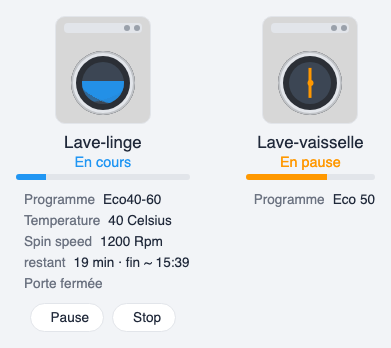
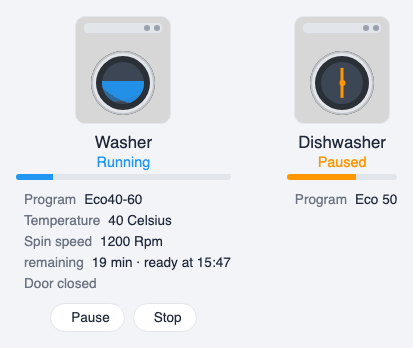
docs: split README into English/French, add badges and links
README.md is now the English version with an EN screenshot; adds
README.fr.md (French) with its own FR screenshot, cross-linked at the
top of each — same pattern as the other repos. Also adds the HACS/
release/license/Buy Me A Coffee badges and the other-projects link.

Fixes an identifier collision in docs/demo.html: its top-level `lang`
variable shadowed the card script's own global `lang()` helper (both
load as plain, non-module scripts sharing the same global scope),
which silently aborted the demo script before it could render
anything.

diff --git a/docs/demo.html b/docs/demo.html
@@ -41,21 +41,25 @@ customElements.define("ha-icon", StubIcon);
 function st(entity_id, state, attributes) {
   return { entity_id, state: String(state), attributes: attributes || {} };
 }
+const demoLang = new URLSearchParams(location.search).get("lang") === "fr" ? "fr" : "en";
+const washerName = demoLang === "fr" ? "Lave-linge" : "Washer";
+const dishwasherName = demoLang === "fr" ? "Lave-vaisselle" : "Dishwasher";
+
 function mkHass(states) {
   return {
-    language: "fr", locale: { language: "fr" }, states, entities: {}, devices: {},
+    language: demoLang, locale: { language: demoLang }, states, entities: {}, devices: {},
     callService: () => {},
   };
 }
 
 const states1 = {};
-[st("sensor.lave_linge_appliance_state", "Running", { friendly_name: "Lave-linge" }),
+[st("sensor.lave_linge_appliance_state", "Running", { friendly_name: washerName }),
  st("select.lave_linge_program_uid", "Cotton Pr Eco40-60"),
  st("sensor.lave_linge_time_to_end", 1380, { unit_of_measurement: "s" }),
  st("binary_sensor.lave_linge_door_state", "off"),
  st("binary_sensor.lave_linge_connectivity_state", "on"),
- st("select.lave_linge_temperature", "40 Celsius", { friendly_name: "Lave-linge Temperature" }),
- st("select.lave_linge_spin_speed", "1200 Rpm", { friendly_name: "Lave-linge Spin speed" }),
+ st("select.lave_linge_temperature", "40 Celsius", { friendly_name: `${washerName} Temperature` }),
+ st("select.lave_linge_spin_speed", "1200 Rpm", { friendly_name: `${washerName} Spin speed` }),
  st("sensor.lave_linge_alerts", "0", {}),
  st("button.lave_linge_execute_command_pause", "unknown"),
  st("button.lave_linge_execute_command_stopreset", "unknown"),
@@ -85,14 +89,14 @@ setInterval(() => {
 }, 1000);
 
 const states2 = {};
-[st("sensor.dw_state", "paused", { friendly_name: "Lave-vaisselle" }),
+[st("sensor.dw_state", "paused", { friendly_name: dishwasherName }),
  st("sensor.dw_program", "Eco 50", {}),
  st("sensor.dw_progress", 63, {}),
 ].forEach((s) => (states2[s.entity_id] = s));
 const card2 = document.getElementById("card2");
 card2.setConfig({
   type: "custom:ha-appliance-card",
-  name: "Lave-vaisselle",
+  name: dishwasherName,
   appliance_type: "dishwasher",
   state_entity: "sensor.dw_state",
   program_entity: "sensor.dw_program",

diff --git a/README.fr.md b/README.fr.md
@@ -1,0 +1,84 @@
+# HA Appliance Card
+
+[![hacs_badge](https://img.shields.io/badge/HACS-Custom-orange.svg)](https://github.com/hacs/integration)
+[![GitHub Release](https://img.shields.io/github/v/release/ADNPolymerase/ha-appliance-card?sort=semver)](https://github.com/ADNPolymerase/ha-appliance-card/releases)
+[![HACS Action](https://github.com/ADNPolymerase/ha-appliance-card/actions/workflows/hacs.yml/badge.svg)](https://github.com/ADNPolymerase/ha-appliance-card/actions/workflows/hacs.yml)
+[![HA Version](https://img.shields.io/badge/Home%20Assistant-2024.1%2B-blue.svg)](https://www.home-assistant.io)
+[![License: MIT](https://img.shields.io/badge/license-MIT-blue.svg)](https://github.com/ADNPolymerase/ha-appliance-card/blob/main/LICENSE)
+[![Buy Me A Coffee](https://img.shields.io/badge/Buy%20Me%20A%20Coffee-support-yellow.svg?logo=buy-me-a-coffee)](https://buymeacoffee.com/adnpolymerase)
+
+<a href="https://buymeacoffee.com/adnpolymerase" target="_blank"><img src="https://cdn.buymeacoffee.com/buttons/v2/default-orange.png" alt="Buy Me A Coffee" height="60"></a>
+<a href="https://adnpolymerase.github.io/HA/" target="_blank"><img src="https://raw.githubusercontent.com/ADNPolymerase/HA/main/assets/site-button.svg" alt="Lien vers mon github.io pour mes autres projets" height="60"></a>
+
+Une card Lovelace Home Assistant pour lave-linge, sèche-linge et lave-vaisselle — cycle en cours, programme, temps restant, état de la porte, alertes et commandes.
+
+Contrairement aux cards spécifiques à une marque, celle-ci ne suppose aucune intégration particulière. Chaque champ est un mapping d'entité configurable, elle fonctionne donc avec **n'importe quelle** intégration de lave-linge/sèche-linge/lave-vaisselle (Electrolux, Samsung, LG, Bosch/Siemens Home Connect, Miele, une simple prise connectée + capteurs template, etc.) du moment que tu la pointes vers les bonnes entités.
+
+> Statut : preview précoce. Retours et issues bienvenus.
+
+> 🇬🇧 [Read in English](README.md)
+
+![HA Appliance Card screenshot](https://raw.githubusercontent.com/ADNPolymerase/ha-appliance-card/main/docs/screenshot.fr.png)
+
+## Fonctionnalités
+
+- Fonctionne avec toutes les marques/intégrations : aucun ID d'entité codé en dur, tout est mappé dans la configuration de la card.
+- Normalisation d'état : traduit n'importe quelle chaîne brute renvoyée par ton intégration (`Idle`, `Running`, `RUNNING`, `wash`, ...) vers un vocabulaire commun en veille / en cours / en pause / terminé / différé / erreur, avec une détection automatique par mots-clés et une surcharge explicite optionnelle via `state_map`.
+- Icône illustrée de l'appareil (lave-linge hublot avec eau animée, linge qui tourne pour un sèche-linge, bras d'aspersion pour un lave-vaisselle) — statique à l'arrêt, animée uniquement en cours de cycle. Type détecté automatiquement depuis l'entité/icône, ou choisi explicitement via `appliance_type`.
+- Barre de progression : utilise un capteur de pourcentage direct si ton intégration en expose un, sinon l'estime côté client à partir du capteur de temps restant.
+- Nom du programme, lignes d'info complémentaires (température, essorage, vapeur, ...), état de la porte et alertes — chacun optionnel et configurable indépendamment. Les libellés des lignes d'info suppriment automatiquement un préfixe de nom d'appareil répété (ex : une entité nommée "Lave-linge Pods" s'affiche juste "Pods").
+- La porte est représentée entrouverte directement sur l'illustration quand elle est ouverte, en plus d'une ligne de texte ; la connectivité est affichée sous forme d'une petite icône wifi/wifi coupé en haut à droite plutôt qu'en ligne de texte.
+- Commandes Démarrer / Pause / Reprendre / Stop (affichées uniquement pour les boutons/entités que tu configures).
+- Mode compact pour masquer l'illustration et ne garder que le texte.
+- Éditeur visuel : choisis l'entité d'état et la plupart des autres champs sont auto-suggérés à partir des entités sœurs du même appareil — modifiable via le sélecteur d'entité.
+
+## Installation (HACS)
+
+Cette card n'est pas encore dans le store HACS par défaut. Ajoute-la en dépôt personnalisé :
+
+1. HACS → menu "⋮" (en haut à droite) → **Dépôts personnalisés**.
+2. Dépôt : `https://github.com/ADNPolymerase/ha-appliance-card`, catégorie : **Dashboard** (Lovelace plugin).
+3. Installe **HA Appliance Card**, puis recharge/vide le cache si la ressource ne se charge pas automatiquement.
+4. Ajoute une card de type `custom:ha-appliance-card` sur un tableau de bord, via YAML ou l'éditeur visuel.
+
+## Configuration
+
+Seule `state_entity` est obligatoire — tout le reste est optionnel. Dans l'éditeur visuel, définir l'entité d'état pré-remplit automatiquement les autres champs quand une entité sœur correspondante est trouvée sur le même appareil ; chaque champ reste modifiable ou effaçable.
+
+| Option | Description |
+|---|---|
+| `state_entity` | **Obligatoire.** Entité rapportant l'état général de l'appareil (n'importe quel domaine). |
+| `state_map` | Map optionnelle chaîne d'état brute → `idle`\|`running`\|`paused`\|`done`\|`delayed`\|`error`, pour les intégrations dont le vocabulaire n'est pas auto-détecté. |
+| `name` | Titre de la card. Par défaut, le nom convivial de l'entité d'état. |
+| `compact` | `true` pour masquer l'illustration et n'afficher que le texte. |
+| `appliance_type` | `auto` (défaut) \| `washer` \| `dryer` \| `dishwasher`. |
+| `program_entity` / `program_format` | Entité contenant le programme/cycle sélectionné. `program_format: clean` (défaut) simplifie les motifs courants `"<catégorie> Pr <nom>"` ; `raw` affiche l'état tel quel. |
+| `remaining_time_entity` / `remaining_time_unit` | Entité du temps restant. Unité `auto` (défaut, lue depuis l'entité), `seconds`, ou `minutes`. |
+| `progress_entity` | Capteur 0–100 optionnel ; remplace l'estimation de progression côté client. |
+| `door_entity` / `door_open_state` / `door_invert` | Capteur de porte, la valeur d'état signifiant "ouverte" (défaut `on`), et une bascule `invert` pour les capteurs où cet état signifie en réalité fermée. |
+| `alerts_entity` | Une entité dont les *attributs* sont chacun un indicateur on/off (ex : `door: OFF`, `water_leak: ON`) ; tout attribut correspondant à une valeur "on/true/active" s'affiche comme alerte active. |
+| `connectivity_entity` / `connectivity_connected_state` | Capteur de connectivité et la valeur d'état signifiant "connecté" (défaut `on`) ; affiché en icône wifi en haut à droite. |
+| `info_entities` | Jusqu'à quelques entrées `{ entity, icon?, label? }` affichées en lignes d'info complémentaires (température, essorage, ...). |
+| `start_entity` / `pause_entity` / `resume_entity` / `stop_entity` | Entités bouton/switch/script reliées à la commande correspondante. Seules celles configurées sont affichées. |
+
+### Exemple
+
+```yaml
+type: custom:ha-appliance-card
+state_entity: sensor.lave_linge_appliance_state
+program_entity: select.lave_linge_program_uid
+remaining_time_entity: sensor.lave_linge_time_to_end
+door_entity: binary_sensor.lave_linge_door_state
+alerts_entity: sensor.lave_linge_alerts
+info_entities:
+  - entity: select.lave_linge_temperature
+    icon: mdi:thermometer
+  - entity: select.lave_linge_spin_speed
+    icon: mdi:rotate-3d-variant
+pause_entity: button.lave_linge_execute_command_pause
+stop_entity: button.lave_linge_execute_command_stopreset
+```
+
+## Licence
+
+MIT — voir [LICENSE](LICENSE).

diff --git a/README.md b/README.md
@@ -1,10 +1,22 @@
 # HA Appliance Card
 
+[![hacs_badge](https://img.shields.io/badge/HACS-Custom-orange.svg)](https://github.com/hacs/integration)
+[![GitHub Release](https://img.shields.io/github/v/release/ADNPolymerase/ha-appliance-card?sort=semver)](https://github.com/ADNPolymerase/ha-appliance-card/releases)
+[![HACS Action](https://github.com/ADNPolymerase/ha-appliance-card/actions/workflows/hacs.yml/badge.svg)](https://github.com/ADNPolymerase/ha-appliance-card/actions/workflows/hacs.yml)
+[![HA Version](https://img.shields.io/badge/Home%20Assistant-2024.1%2B-blue.svg)](https://www.home-assistant.io)
+[![License: MIT](https://img.shields.io/badge/license-MIT-blue.svg)](https://github.com/ADNPolymerase/ha-appliance-card/blob/main/LICENSE)
+[![Buy Me A Coffee](https://img.shields.io/badge/Buy%20Me%20A%20Coffee-support-yellow.svg?logo=buy-me-a-coffee)](https://buymeacoffee.com/adnpolymerase)
+
+<a href="https://buymeacoffee.com/adnpolymerase" target="_blank"><img src="https://cdn.buymeacoffee.com/buttons/v2/default-orange.png" alt="Buy Me A Coffee" height="60"></a>
+<a href="https://adnpolymerase.github.io/HA/" target="_blank"><img src="https://raw.githubusercontent.com/ADNPolymerase/HA/main/assets/site-button.svg" alt="Link to my github.io for my other projects" height="60"></a>
+
 A Home Assistant Lovelace card for washers, dryers and dishwashers — cycle in progress, program, remaining time, door status, alerts and controls.
 
 Unlike brand-specific cards, this one doesn't assume any particular integration. Every field is a configurable entity mapping, so it works with **any** washer/dryer/dishwasher integration (Electrolux, Samsung, LG, Bosch/Siemens Home Connect, Miele, a generic smart plug + template sensors, etc.) as long as you point it at the right entities.
 
 > Status: early preview. Feedback and issues welcome.
+
+> 🇫🇷 [Lire en français](README.fr.md)
 
 ![HA Appliance Card screenshot](https://raw.githubusercontent.com/ADNPolymerase/ha-appliance-card/main/docs/screenshot.png)
 